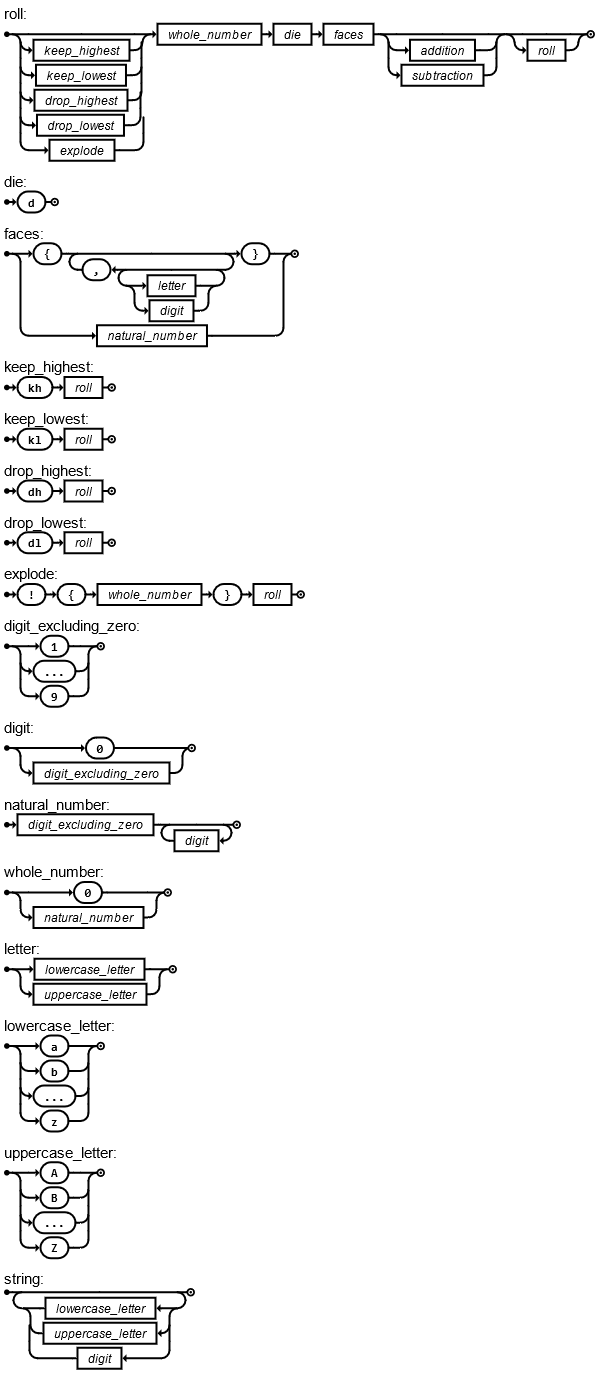
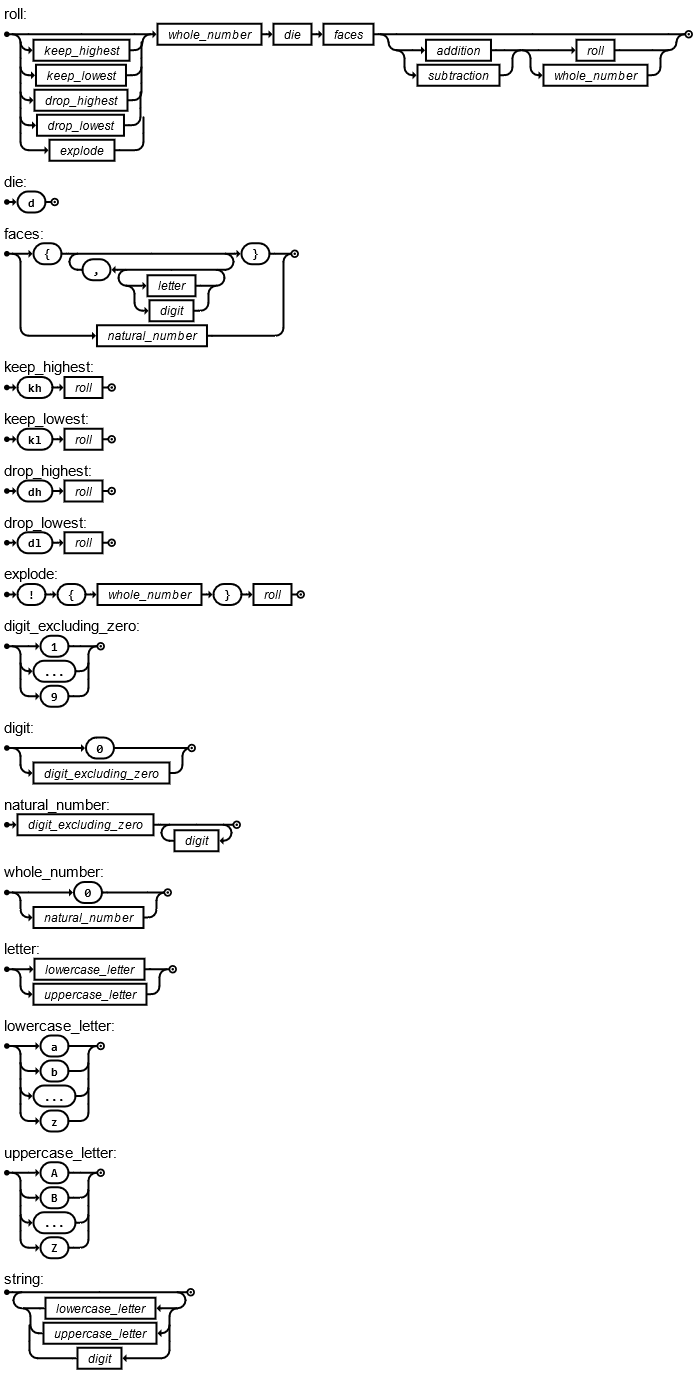
Fix an issue with the grammar spec

Changed region(s): [[0.0, 0.0, 0.96, 1.0], [0.96, 0.0, 0.99, 0.0306], [0.3, 0.5197, 0.33, 0.5502]]

diff --git a/README.md b/README.md
@@ -1,24 +1,11 @@
 ## Grammar
-The following [EBNF](https://en.wikipedia.org/wiki/Extended_Backus%E2%80%93Naur_form) specification defines valid inputs. You can view the railroad diagram [here](docs/dice_roll_ebnf_railroad_solid_bg.png).
+Valid dice rolls are defined by an [EBNF](https://en.wikipedia.org/wiki/Extended_Backus%E2%80%93Naur_form) specification which can be found in the [docs](docs/prerool.iso-ebnf). You can view the railroad diagram [here](docs/dice_roll_ebnf_railroad_solid_bg.png).
 
-```
-roll = [[[keep_highest | keep_lowest] | [drop_highest | drop_lowest]] | [explode]], whole_number, die, faces, [ addition | subtraction ], [roll];
-die = "d";
-faces = ("{", {{letter | digit}, ","}, "}") | natural_number;
-
-keep_highest = "kh", roll;
-keep_lowest = "kl", roll;
-drop_highest = "dh", roll;
-drop_lowest = "dl", roll;
-explode = "!", "{", whole_number, "}", roll;
-
-digit_excluding_zero = "1" | "..." | "9" ;
-digit = "0" | digit_excluding_zero ;
-natural_number = digit_excluding_zero, { digit } ;
-whole_number = "0" | natural_number ;
-
-letter =  lowercase_letter | uppercase_letter;
-lowercase_letter =  "a" | "b" | "..." | "z";
-uppercase_letter =  "A" | "B" | "..." | "Z";
-string = { lowercase_letter | uppercase_letter | digit };
-```
+### Examples
+Here are some valid roll inputs:
+- `1d20`
+- `13d3`
+- `2d5 - 4`
+- `5d{red,blue,green}`
+- `2d{1,3,17}`
+- `kh2d20 + 3`
